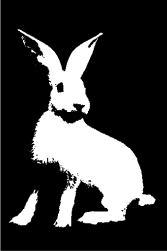
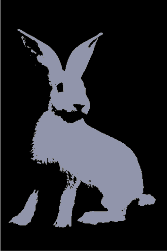
full pallette change

diff --git a/style.css b/style.css
@@ -19,7 +19,7 @@
 }
 
 :root {
-    --primary: #ffffff;
+    --primary: #9fa4c2;
     --base: #0a0c14;
 }
 
@@ -28,7 +28,6 @@
 }
 
 body {
-    background-color: #9195ab;
     color: var(--primary);
     font-family: 'OldNewspaperTypes', serif;
     margin: 0
@@ -61,7 +60,6 @@ img::selection {
     gap: 30px;
 
     position: relative;
-    mix-blend-mode: darken;
 }
 
 .main-container::before {
